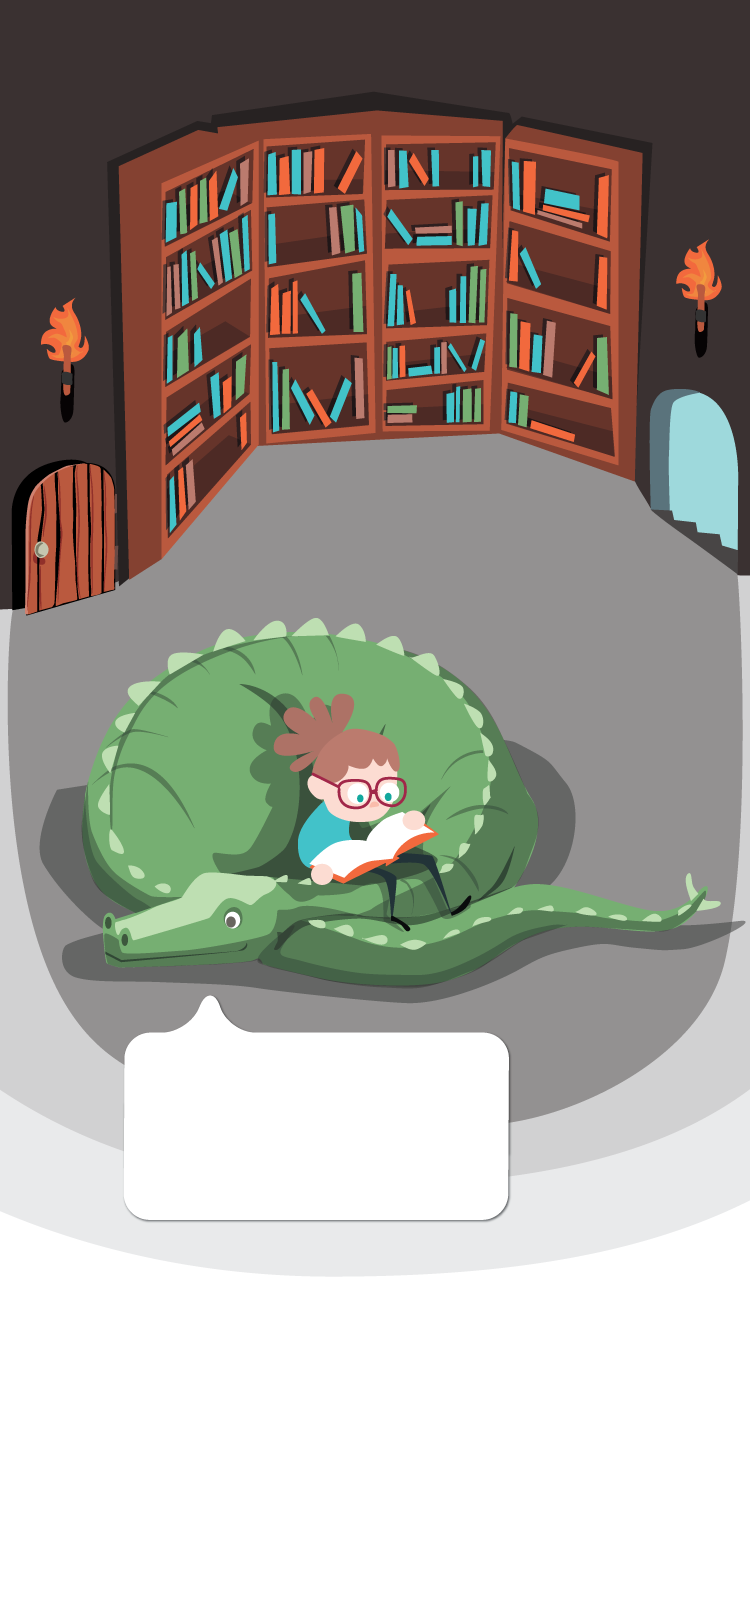
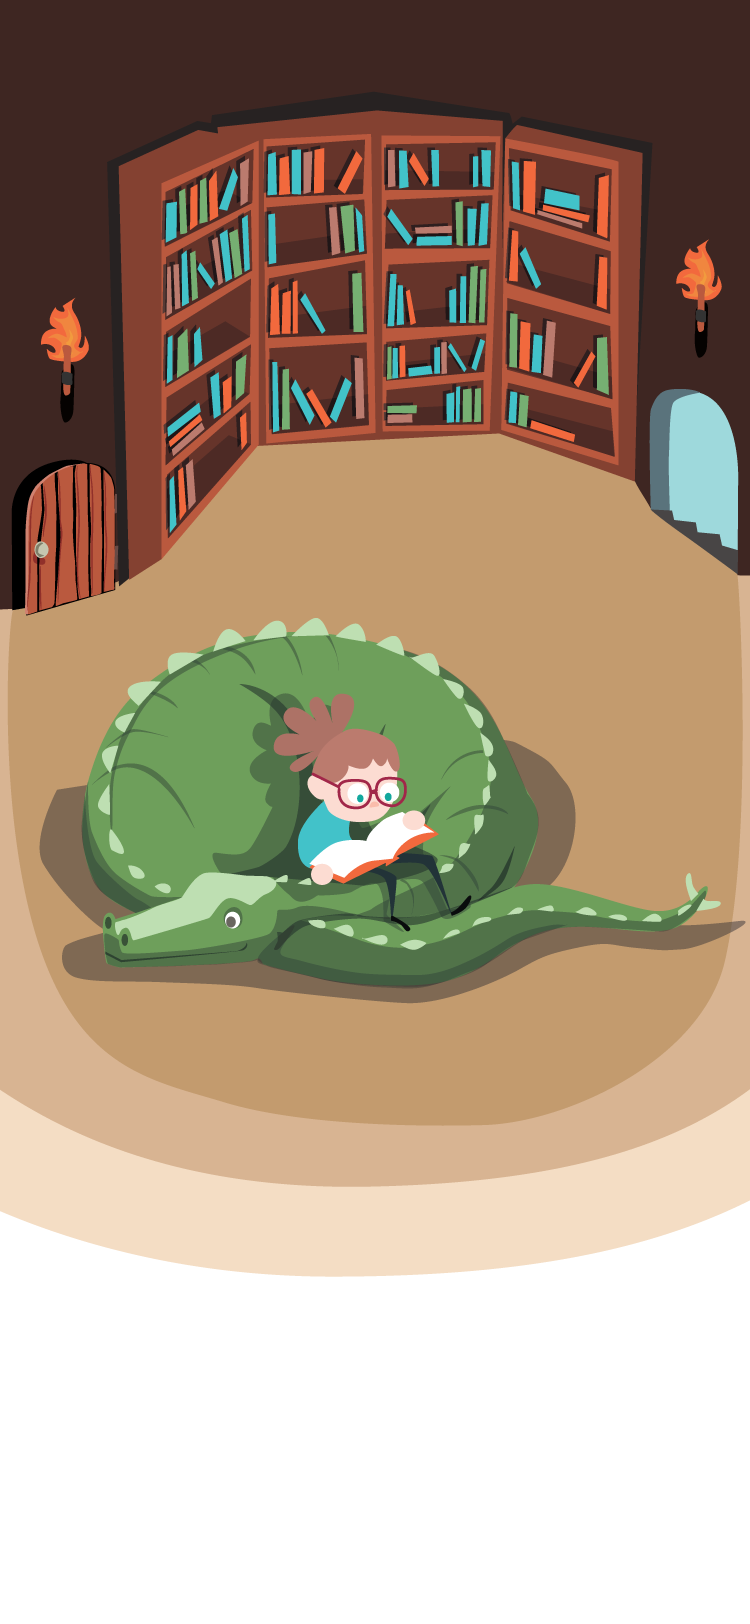
add speech bubble for knowledge page, text, and new bg

diff --git a/style.css b/style.css
@@ -275,11 +275,21 @@ nav a.active {
 }
 
 .page-knowledge .speech-bubble {
-  top: 79.5%;
+  top: 77%;
   left: 18.5%;
-  width: 24%;
-  font-size: 1.7cqw;
+  width: 61%;
+  font-size: 2cqw;
 }
+
+.page-knowledge .speech-bubble::after {
+  background-image: url('images/speech-bubble-tail_side.svg');
+  top: -4.5cqw;   
+  transform: translateX(-50%) rotate(-270deg); 
+  left: 20%;              
+  width: 5cqw;       
+  height: 10cqw;    
+}
+
 .page-design .speech-bubble {
   top: 21%;
   left: 35%;
@@ -685,10 +695,18 @@ footer p {
 
   .page-knowledge .speech-bubble {
     font-size: 3.5cqw;
-    top: 67%;
+    top: 63%;
     left: 12%;
-    width: 56%
+    width: 75%
   }
+  .page-knowledge .speech-bubble::after {
+    top: -6cqw;                             
+    width: 10cqw;       
+    height: 16cqw;    
+    transform: scaleX(-1) rotate(90deg);
+    left: 20%;                
+  }
+
   .page-design .speech-bubble {
     font-size: 3.5cqw;
     top: 41%;

diff --git a/knowledge.html b/knowledge.html
@@ -52,12 +52,14 @@
             height="1600">
         </picture>
 
-        <p class="speech-bubble">
-          <span class="bubble-quote quote-1">“</span>
-          <span class="bubble-line line-1">I read across</span><br>
-          <span class="bubble-line line-2">domains, extensively.</span>
-          <span class="bubble-quote">”</span>
-        </p>
+        <div class="speech-bubble">
+          <p>
+            <span class="bubble-quote">“</span> Nicole reads across learning science, disability, and systems thinking so she can design for everyone.
+          </p>
+          <p>
+            A robust background is what allows her to challenge assumptions and make evidence-based design trade-offs. <span class="bubble-quote">”</span>
+          </p>
+        </div>
         <a href="learning.html" class="scene-button button-learning" aria-label="Go to Learning">
           <span class="arrow">↖</span>
         </a>
